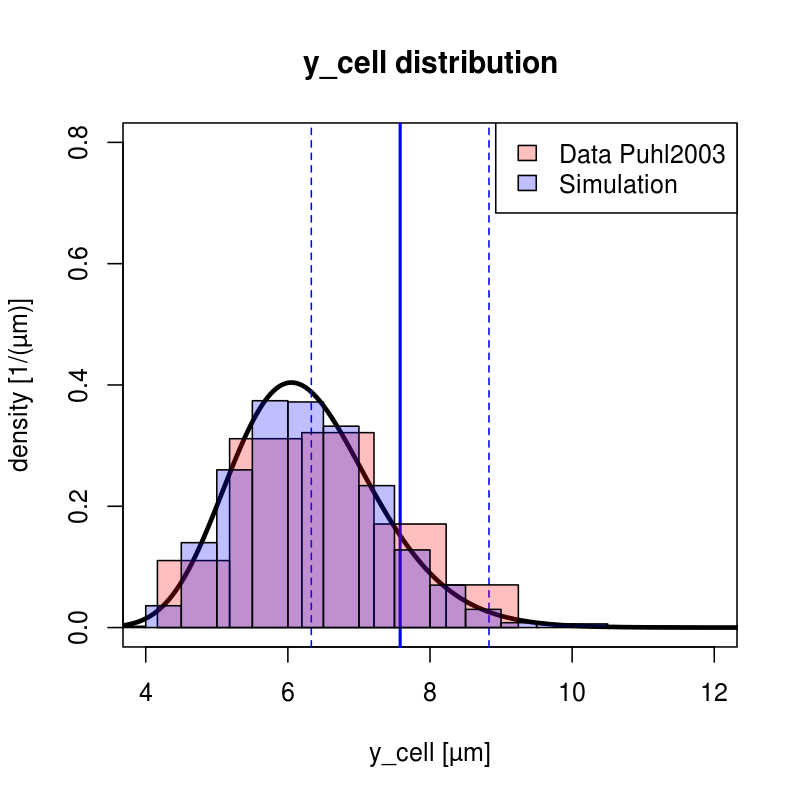
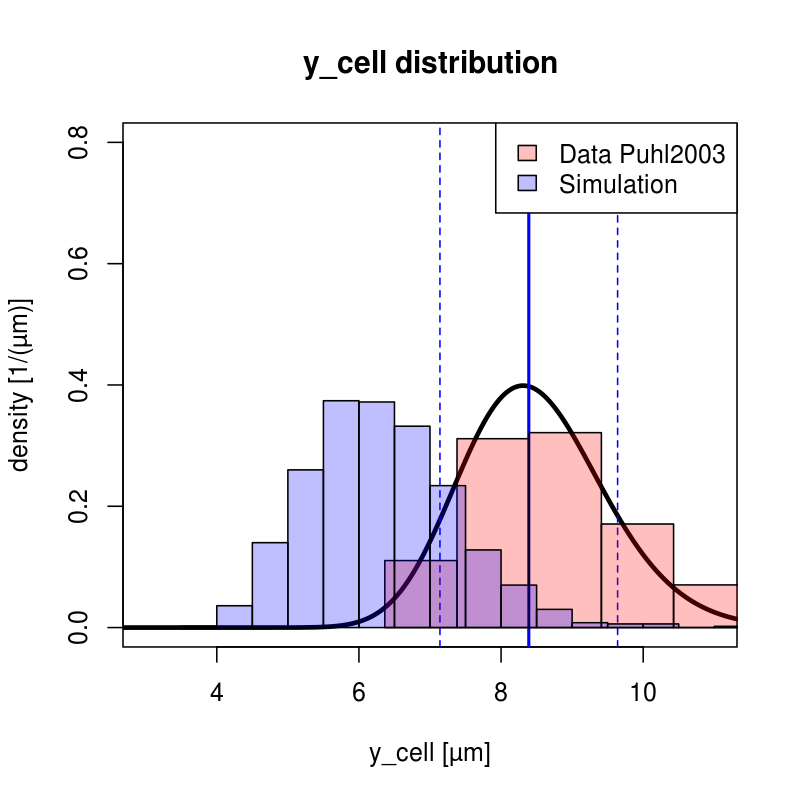
Parameters fitted

diff --git a/python/simulator/simulator/roadrunner_tools/galactose_challenge.py b/python/simulator/simulator/roadrunner_tools/galactose_challenge.py
@@ -15,7 +15,7 @@ import roadrunner_tools as rt
 #########################################################################    
 # Load model
 #########################################################################    
-VERSION = 93
+VERSION = 97
 SBML_DIR = '/home/mkoenig/multiscale-galactose-results/tmp_sbml'
 sbml_file = SBML_DIR + '/' + 'Galactose_v{}_Nc20_galchallenge.xml'.format(VERSION)
 r = rt.load_model(sbml_file)
@@ -46,14 +46,16 @@ flow_sin = np.arange(start=0, stop=0.8, step=0.05) * r.flow_sin # [m/s] (scaling
 p_list = []
 for f in flow_sin:
     d = { "gal_challenge" : 8,  
-              "flow_sin" : f,    
-              "y_dis" : 2.0E-6,
-              "y_cell" : 6.19E-6,
-              "f_cyto" : 0.5,
-              "scale_f" : 0.57,
-              "GALK_PA" : 0.02*1.2,
-              "GLUT2_f" : 10.0,              
-              "H2OT_f": 8.0,      
+              "flow_sin" : f,     
+
+              "y_dis" : 2.3E-6,
+              # "y_cell" : 8.39E-6,
+              
+              # "f_cyto" : 0.4,
+              # "scale_f" : 0.43,
+              #"GALK_PA" : 0.024,
+              # "GLUT2_f" : 10.0,              
+              # "H2OT_f": 5.0,         
              }
     p_list.append(d)
 
@@ -70,8 +72,7 @@ s_list = [rt.simulation(r, p, inits, absTol=1E-4, relTol=1E-4) for p in p_list]
 import numpy as np
 Q_sinunit = np.pi * r.y_sin**2 * flow_sin # [m³/s]
 Vol_sinunit = r.Vol_sinunit   # has to be calculated with the actual variables
-print Vol_sinunit
-r.L * np.pi * (r.y_sin + r.y_end + r.y_dis + r.y_cell*1.2)**2
+print (r.L * np.pi * (r.y_sin + r.y_end + r.y_dis + r.y_cell*1.4)**2)/r.Vol_sinunit
 
 
 
@@ -121,15 +122,15 @@ p.show()
 
 
 # Real GEC value liver
-f_vol = 0.75 # [-] volume which is parenchyma
+f_vol = 0.8 # [-] volume which is parenchyma
 vol_liv = 1500 # [ml] reference volume liver
 
-print 'Q_fac cor:', f_vol * Q_fac 
+print 'Q_fac cor:', Q_fac/f_vol 
 print 'GEC cor:', f_vol*max(GEC)*vol_liv
 
 p.plot(f_vol*Q, f_vol*GEC*vol_liv, '-k')
 p.plot(f_vol*Q, f_vol*GEC*vol_liv, 'ok')
-p.plot([f_vol*Q_fac, f_vol*Q_fac], [0, f_vol*max(GEC)*vol_liv])
+p.plot([Q_fac/f_vol, Q_fac/f_vol], [0, f_vol*max(GEC)*vol_liv])
 p.xlabel('P [ml/min/ml(liv)]')
 p.ylabel('GEC liver [mmole/min]')
 p.title('GEC liver vs. Perfusion')

diff --git a/python/simulator/simulator/roadrunner_tools/galactose_dilution_flux.py b/python/simulator/simulator/roadrunner_tools/galactose_dilution_flux.py
@@ -16,7 +16,7 @@ reload(rp)
 reload(gf)
 
 #########################################################################    
-VERSION = 96
+VERSION = 97
 SBML_DIR = '/home/mkoenig/multiscale-galactose-results/tmp_sbml'
 T_PEAK = 5000
 
@@ -43,7 +43,7 @@ reload(gf)
 flux = gf.flux_sample() # [m/s]
 print flux
 p_flux = gf.flux_probability(flux)
-f_fac = 0.45
+f_fac = 0.5
 flow_sin = f_fac * flux # [m/s] (scaling to calculate in correct volume flow range)
 
 #########################################################################    
@@ -61,14 +61,14 @@ for gal in [0.28, 12.5, 17.5]:
         d = { 
               "[PP__gal]" : gal, 
               "flow_sin" : f,    
-              #"y_dis" : 2.0E-6,
-              #"y_cell" : 6.19E-6,
+              "y_dis" : 2.3E-6,
+              # "y_cell" : 8.39E-6,
               
-              #"f_cyto" : 0.5,
-              #"scale_f" : 0.57,
+              # "f_cyto" : 0.4,
+              # "scale_f" : 0.43,
               #"GALK_PA" : 0.024,
-              #"GLUT2_f" : 10.0,              
-              #"H2OT_f": 8.0,               
+              # "GLUT2_f" : 10.0,              
+              # "H2OT_f": 5.0,               
               }
         p_list.append(d)
     gal_p_list.append(p_list)
@@ -118,13 +118,10 @@ tlim = [T_PEAK-4, T_PEAK+20]
 # rp.flux_plots(f_list, sel, xlim=tlim, show=show_plots)
 # average curves
 # rp.average_plots(timepoints, av_mats, xlim=tlim, show=show_plots)
+    
 
-# plot with experimental data
-# rp.plot_data_with_sim(exp_data, timepoints, av_mats, scale=4.0*15.16943, time_shift=1.5)
-# rp.plot_gal_data_with_sim(exp_data, timepoints, av_mats, scale=4.0*15.16943, time_shift=1.5)        
-
-rp.plot_data_with_sim(exp_data, timepoints, av_mats, scale=3.8*15.16943, time_shift=1.0)
-rp.plot_gal_data_with_sim(exp_data, timepoints, av_mats, scale=3.8*15.16943, time_shift=1.0)   
+rp.plot_data_with_sim(exp_data, timepoints, av_mats, scale=4.0*15.16943, time_shift=0.8)
+rp.plot_gal_data_with_sim(exp_data, timepoints, av_mats, scale=4.0*15.16943, time_shift=0.8)   
  
 
 # additional information

diff --git a/python/modelcreator/modelcreator/models/SinusoidalUnit.py b/python/modelcreator/modelcreator/models/SinusoidalUnit.py
@@ -81,14 +81,14 @@ pars.extend([
             ('y_sin',       4.4E-6,   'm',      True),
             ('y_end',     0.165E-6, 'm',      True),
             ('y_dis',       2.0E-6,   'm',      True),
-            ('y_cell',     6.19E-6,  'm',      True),
+            ('y_cell',     8.39E-6,  'm',      True),
             ('flow_sin',    229E-6,   'm_per_s',True),
             ('N_fen',        10E12,   'per_m2', True),
             ('r_fen',      53.5E-9,   'm',      True),
             
             ('rho_liv',     1.25E3,    'kg_per_m3', True), 
             ('f_tissue',     0.8, '-', True),
-            ('f_cyto',       0.5, '-', True),
+            ('f_cyto',       0.4, '-', True),
 ])
 names['Nc'] = 'number of cells in sinusoidal unit'
 names['Nf'] = 'external compartments per cell'

diff --git a/python/modelcreator/modelcreator/models/GalactoseFactory.py b/python/modelcreator/modelcreator/models/GalactoseFactory.py
@@ -22,7 +22,7 @@ if __name__ == "__main__":
     # definition of cell model and tissue model
     Nc = 20
     Nf = 1
-    version = 96
+    version = 97
     cell_model = CellModel.createModel('galactose.GalactoseCell')
     tdict = TissueModel.createTissueDict(['SinusoidalUnit', 
                                           'galactose.GalactoseSinusoid']) 

diff --git a/python/modelcreator/modelcreator/models/galactose/GalactoseCell.py b/python/modelcreator/modelcreator/models/galactose/GalactoseCell.py
@@ -49,7 +49,7 @@ species = [
             ('c__nadph',            0.1,    'mM'),
 ]
 pars = [# id, value, unit, constant            
-            ('scale_f',   0.57,   'per_m3',    True),
+            ('scale_f',   0.43,   'per_m3',    True),
             ('REF_P',     1.0,      'mM',   True),
             ('deficiency',  0,      '-',    True),
 ]  
